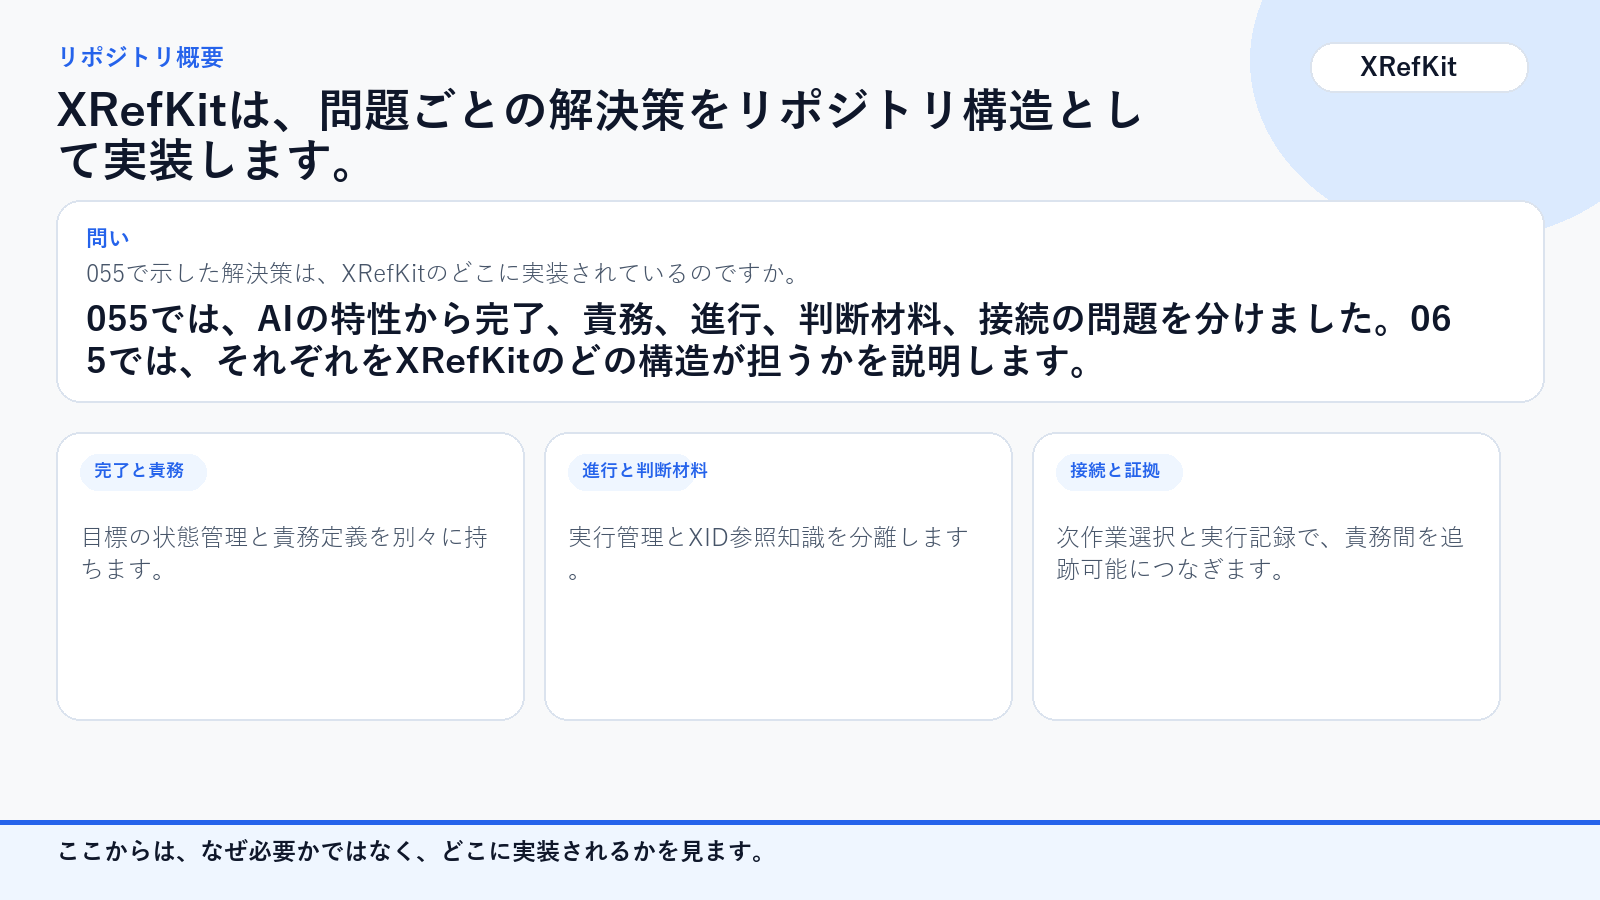
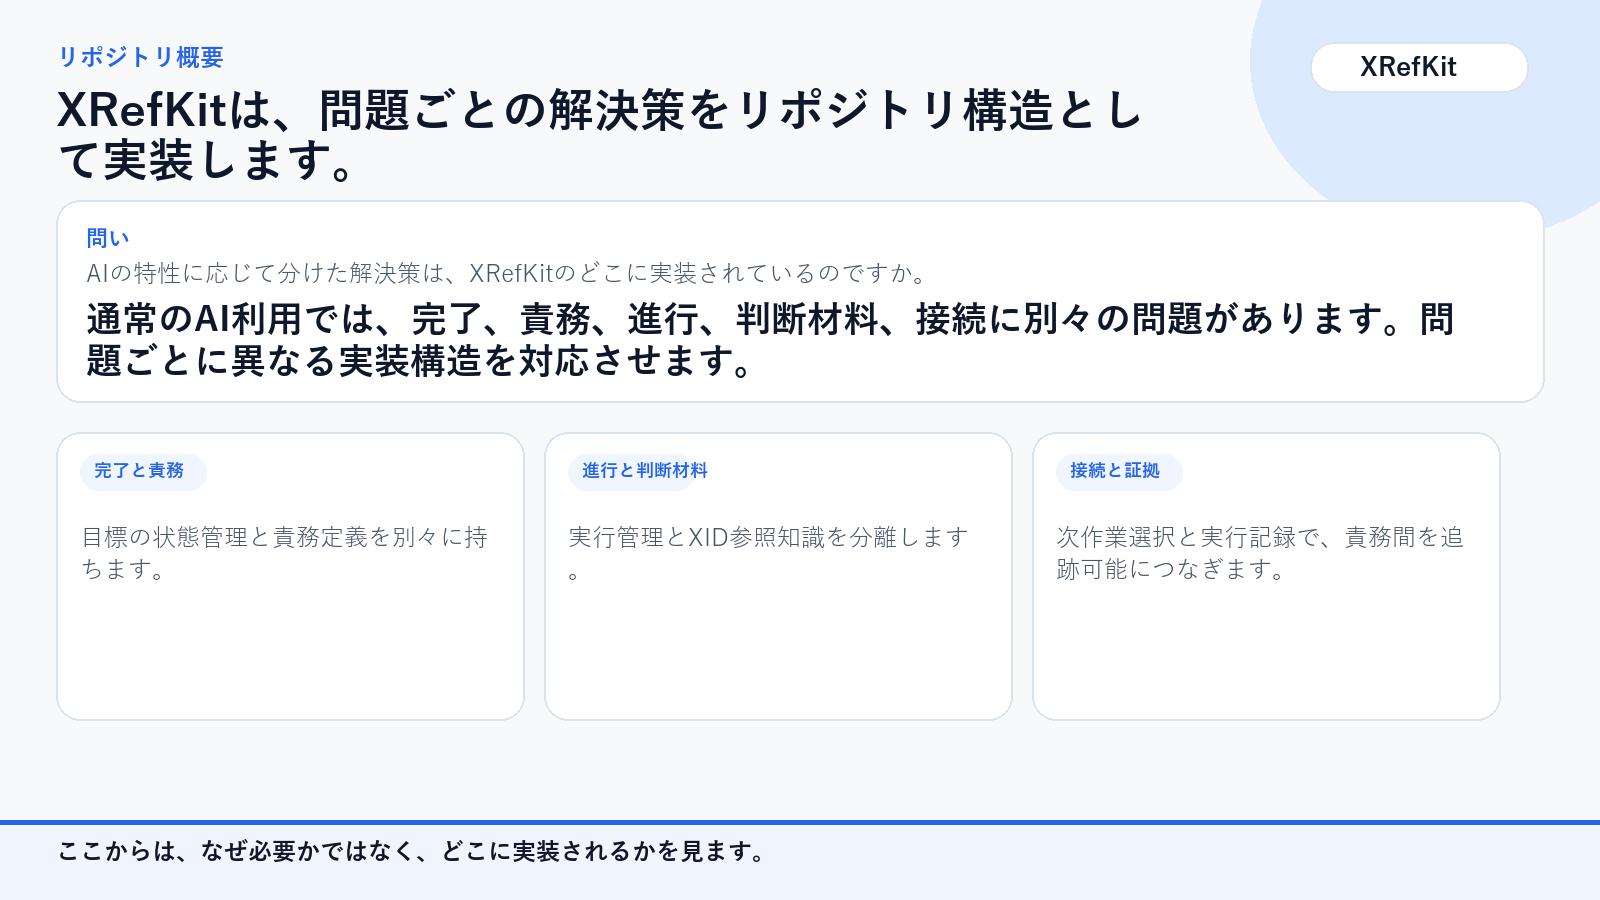
Remove deck-number-dependent copy

Changed region(s): [[0.0312, 0.28, 0.9062, 0.4356]]

diff --git a/human-docs/ja/video/065_xrefkit_repository_overview/index.html b/human-docs/ja/video/065_xrefkit_repository_overview/index.html
@@ -52,9 +52,9 @@
     <h1>XRefKit リポジトリ説明動画プレビュー</h1>
     <p>質問スライドと解説スライドを交互に並べた、現在の XRefKit リポジトリ概要です。</p>
 
-    <div class="entry"><div class="order">01a</div><p>055で示した解決策は、XRefKitのどこに実装されているのですか。</p><img src="../../assets/065_xrefkit_repository_overview/01_title_q.png" alt="01a" /></div>
+    <div class="entry"><div class="order">01a</div><p>AIの特性に応じて分けた解決策は、XRefKitのどこに実装されているのですか。</p><img src="../../assets/065_xrefkit_repository_overview/01_title_q.png" alt="01a" /></div>
     <div class="entry"><div class="order">01b</div><p>XRefKitは、問題ごとの解決策をリポジトリ構造として実装します。</p><img src="../../assets/065_xrefkit_repository_overview/01_title.png" alt="01b" /></div>
-    <div class="entry"><div class="order">02a</div><p>055で分けた解決策は、どの実装構造が担当するのですか。</p><img src="../../assets/065_xrefkit_repository_overview/02_not_docs_q.png" alt="02a" /></div>
+    <div class="entry"><div class="order">02a</div><p>完了、責務、進行、判断材料、接続は、どの実装構造が担当するのですか。</p><img src="../../assets/065_xrefkit_repository_overview/02_not_docs_q.png" alt="02a" /></div>
     <div class="entry"><div class="order">02b</div><p>目標、限定責務、進行、判断材料、接続を別の構造で持ちます。</p><img src="../../assets/065_xrefkit_repository_overview/02_not_docs.png" alt="02b" /></div>
     <div class="entry"><div class="order">03a</div><p>では、このリポジトリは何をどう分けているのですか。</p><img src="../../assets/065_xrefkit_repository_overview/03_layers_q.png" alt="03a" /></div>
     <div class="entry"><div class="order">03b</div><p>層を分けて、読むもの、従うもの、残すものを分離しています。</p><img src="../../assets/065_xrefkit_repository_overview/03_layers.png" alt="03b" /></div>

diff --git a/site/ja/slides/065_xrefkit_repository_overview/index.html b/site/ja/slides/065_xrefkit_repository_overview/index.html
@@ -52,9 +52,9 @@
     <h1>XRefKit リポジトリ説明動画プレビュー</h1>
     <p>質問スライドと解説スライドを交互に並べた、現在の XRefKit リポジトリ概要です。</p>
 
-    <div class="entry"><div class="order">01a</div><p>055で示した解決策は、XRefKitのどこに実装されているのですか。</p><img src="../../assets/065_xrefkit_repository_overview/01_title_q.png" alt="01a" /></div>
+    <div class="entry"><div class="order">01a</div><p>AIの特性に応じて分けた解決策は、XRefKitのどこに実装されているのですか。</p><img src="../../assets/065_xrefkit_repository_overview/01_title_q.png" alt="01a" /></div>
     <div class="entry"><div class="order">01b</div><p>XRefKitは、問題ごとの解決策をリポジトリ構造として実装します。</p><img src="../../assets/065_xrefkit_repository_overview/01_title.png" alt="01b" /></div>
-    <div class="entry"><div class="order">02a</div><p>055で分けた解決策は、どの実装構造が担当するのですか。</p><img src="../../assets/065_xrefkit_repository_overview/02_not_docs_q.png" alt="02a" /></div>
+    <div class="entry"><div class="order">02a</div><p>完了、責務、進行、判断材料、接続は、どの実装構造が担当するのですか。</p><img src="../../assets/065_xrefkit_repository_overview/02_not_docs_q.png" alt="02a" /></div>
     <div class="entry"><div class="order">02b</div><p>目標、限定責務、進行、判断材料、接続を別の構造で持ちます。</p><img src="../../assets/065_xrefkit_repository_overview/02_not_docs.png" alt="02b" /></div>
     <div class="entry"><div class="order">03a</div><p>では、このリポジトリは何をどう分けているのですか。</p><img src="../../assets/065_xrefkit_repository_overview/03_layers_q.png" alt="03a" /></div>
     <div class="entry"><div class="order">03b</div><p>層を分けて、読むもの、従うもの、残すものを分離しています。</p><img src="../../assets/065_xrefkit_repository_overview/03_layers.png" alt="03b" /></div>

diff --git a/human-docs/ja/assets/065_xrefkit_repository_overview/08_conclusion.html b/human-docs/ja/assets/065_xrefkit_repository_overview/08_conclusion.html
@@ -215,7 +215,7 @@ body {
     <section class="summary">
       <div class="summary-label">問い</div>
       <div class="summary-copy">この実装構造を、組織の利用環境へどう届けるのですか。</div>
-      <div class="summary-title">055で分けた解決策を、責務定義、組織固有知識、実行管理、証拠、参照解決として実装し、同じ構造を複数の利用環境へ届けます。</div>
+      <div class="summary-title">問題ごとに分けた解決策を、責務定義、組織固有知識、実行管理、証拠、参照解決として実装し、同じ構造を複数の利用環境へ届けます。</div>
     </section>
     <section class="cards">
       <article class="card">
@@ -230,7 +230,7 @@ body {
         <div class="card-tag">MCP</div>
         <p>同じ参照解決機構から必要なXID本文を配信します。</p>
       </article></section>
-    <div class="takeaway">問題ごとに分けた仕組みを、<strong>同じ契約のまま実装・配布する</strong>ことが065の結論です。</div>
+    <div class="takeaway">問題ごとに分けた仕組みを、<strong>同じ契約のまま実装・配布する</strong>ことが、この資料の結論です。</div>
   </main>
 </body>
 </html>

diff --git a/human-docs/ja/assets/065_xrefkit_repository_overview/02_not_docs.html b/human-docs/ja/assets/065_xrefkit_repository_overview/02_not_docs.html
@@ -214,7 +214,7 @@ body {
     </header>
     <section class="summary">
       <div class="summary-label">問い</div>
-      <div class="summary-copy">055で分けた解決策は、どの実装構造が担当するのですか。</div>
+      <div class="summary-copy">完了、責務、進行、判断材料、接続は、どの実装構造が担当するのですか。</div>
       <div class="summary-title">一つの万能機能にまとめず、問題ごとの責任境界をパッケージ、責務定義、組織固有知識、実行記録へ対応させます。</div>
     </section>
     <section class="cards">
@@ -230,7 +230,7 @@ body {
         <div class="card-tag">次作業選択</div>
         <p>責務一覧と現在状態から、次に必要な責務を選びます。</p>
       </article></section>
-    <div class="takeaway">055の<strong>問題と解決策の対応</strong>を、そのまま<strong>実装境界</strong>として保ちます。</div>
+    <div class="takeaway"><strong>問題と解決策の対応</strong>を、そのまま<strong>実装境界</strong>として保ちます。</div>
   </main>
 </body>
 </html>

diff --git a/human-docs/ja/assets/065_xrefkit_repository_overview/01_title.html b/human-docs/ja/assets/065_xrefkit_repository_overview/01_title.html
@@ -214,8 +214,8 @@ body {
     </header>
     <section class="summary">
       <div class="summary-label">問い</div>
-      <div class="summary-copy">055で示した解決策は、XRefKitのどこに実装されているのですか。</div>
-      <div class="summary-title">055では、AIの特性から完了、責務、進行、判断材料、接続の問題を分けました。065では、それぞれをXRefKitのどの構造が担うかを説明します。</div>
+      <div class="summary-copy">AIの特性に応じて分けた解決策は、XRefKitのどこに実装されているのですか。</div>
+      <div class="summary-title">通常のAI利用では、完了、責務、進行、判断材料、接続に別々の問題があります。問題ごとに異なる実装構造を対応させます。</div>
     </section>
     <section class="cards">
       <article class="card">

diff --git a/human-docs/ja/assets/065_xrefkit_repository_overview/04_runtime.html b/human-docs/ja/assets/065_xrefkit_repository_overview/04_runtime.html
@@ -215,7 +215,7 @@ body {
     <section class="summary">
       <div class="summary-label">問い</div>
       <div class="summary-copy">責務定義があれば、そのまま実行すればいいのではないですか。</div>
-      <div class="summary-title">xrefkit skill runコマンドで責務実行を開始し、作業項目、成果物、懸念事項、役割分離を記録してから閉じます。これが055で示した進行問題への実装です。</div>
+      <div class="summary-title">xrefkit skill runコマンドで責務実行を開始し、作業項目、成果物、懸念事項、役割分離を記録してから閉じます。これが作業途中の終了と作業漏れへの実装です。</div>
     </section>
     <section class="cards">
       <article class="card">

diff --git a/site/assets/deck-catalog.js b/site/assets/deck-catalog.js
@@ -24,7 +24,7 @@ const XREFKIT_DECKS = [
     id: "065",
     level: "Implementation",
     role: "Repository implementation",
-    question: { en: "How does the repository implement controlled AI work?", ja: "055で分けた解決策を、XRefKitはどの構造として実装するのか。" },
+    question: { en: "How does the repository implement controlled AI work?", ja: "AIの特性に応じて分けた解決策を、XRefKitはどの構造として実装するのか。" },
     title: { en: "XRefKit Repository Overview", ja: "XRefKit リポジトリ概要" },
     summary: {
       en: "Explains XRefKit as the operating base that connects Goals, Skills, Knowledge, workflow evidence, and MCP distribution.",

diff --git a/site/sources/assets/deck-catalog.js b/site/sources/assets/deck-catalog.js
@@ -24,7 +24,7 @@ const XREFKIT_DECKS = [
     id: "065",
     level: "Implementation",
     role: "Repository implementation",
-    question: { en: "How does the repository implement controlled AI work?", ja: "055で分けた解決策を、XRefKitはどの構造として実装するのか。" },
+    question: { en: "How does the repository implement controlled AI work?", ja: "AIの特性に応じて分けた解決策を、XRefKitはどの構造として実装するのか。" },
     title: { en: "XRefKit Repository Overview", ja: "XRefKit リポジトリ概要" },
     summary: {
       en: "Explains XRefKit as the operating base that connects Goals, Skills, Knowledge, workflow evidence, and MCP distribution.",

diff --git a/human-docs/ja/assets/065_xrefkit_repository_overview/01_title_q.html b/human-docs/ja/assets/065_xrefkit_repository_overview/01_title_q.html
@@ -215,7 +215,7 @@ body {
     <section class="question-wrap">
       <div class="question-box">
         <div class="question-label">問い</div>
-        <div class="question-text">055で示した解決策は、XRefKitのどこに実装されているのですか。</div>
+        <div class="question-text">AIの特性に応じて分けた解決策は、XRefKitのどこに実装されているのですか。</div>
       </div>
     </section>
     <div class="takeaway"><strong>視聴者の疑問</strong>を先に置き、その次に一つずつ説明します。</div>

diff --git a/human-docs/ja/assets/065_xrefkit_repository_overview/02_not_docs_q.html b/human-docs/ja/assets/065_xrefkit_repository_overview/02_not_docs_q.html
@@ -215,7 +215,7 @@ body {
     <section class="question-wrap">
       <div class="question-box">
         <div class="question-label">問い</div>
-        <div class="question-text">055で分けた解決策は、どの実装構造が担当するのですか。</div>
+        <div class="question-text">完了、責務、進行、判断材料、接続は、どの実装構造が担当するのですか。</div>
       </div>
     </section>
     <div class="takeaway"><strong>視聴者の疑問</strong>を先に置き、その次に一つずつ説明します。</div>

diff --git a/human-docs/ja/assets/065_xrefkit_repository_overview/render_pngs.py b/human-docs/ja/assets/065_xrefkit_repository_overview/render_pngs.py
@@ -22,9 +22,9 @@ FONT_REG = str(Path("C:/Windows/Fonts/YuGothR.ttc"))
 SLIDES = [
     {
         "name": "01_title",
-        "question": "055で示した解決策は、XRefKitのどこに実装されているのですか。",
+        "question": "AIの特性に応じて分けた解決策は、XRefKitのどこに実装されているのですか。",
         "title": "XRefKitは、問題ごとの解決策をリポジトリ構造として実装します。",
-        "copy": "055では、AIの特性から完了、責務、進行、判断材料、接続の問題を分けました。065では、それぞれをXRefKitのどの構造が担うかを説明します。",
+        "copy": "通常のAI利用では、完了、責務、進行、判断材料、接続に別々の問題があります。問題ごとに異なる実装構造を対応させます。",
         "cards": [
             ("完了と責務", "目標の状態管理と責務定義を別々に持ちます。"),
             ("進行と判断材料", "実行管理とXID参照知識を分離します。"),
@@ -34,7 +34,7 @@ SLIDES = [
     },
     {
         "name": "02_not_docs",
-        "question": "055で分けた解決策は、どの実装構造が担当するのですか。",
+        "question": "完了、責務、進行、判断材料、接続は、どの実装構造が担当するのですか。",
         "title": "目標、限定責務、進行、判断材料、接続を別の構造で持ちます。",
         "copy": "一つの万能機能にまとめず、問題ごとの責任境界をパッケージ、責務定義、組織固有知識、実行記録へ対応させます。",
         "cards": [
@@ -42,7 +42,7 @@ SLIDES = [
             ("進行と組織固有知識", "作業進行規約は実行記録、判断材料はXID本文が持ちます。"),
             ("次作業選択", "責務一覧と現在状態から、次に必要な責務を選びます。"),
         ],
-        "takeaway": "055の問題と解決策の対応を、そのまま実装境界として保ちます。",
+        "takeaway": "問題と解決策の対応を、そのまま実装境界として保ちます。",
     },
     {
         "name": "03_layers",
@@ -60,7 +60,7 @@ SLIDES = [
         "name": "04_runtime",
         "question": "責務定義があれば、そのまま実行すればいいのではないですか。",
         "title": "作業進行規約を、記録と終了判定を持つ実行管理枠として実装します。",
-        "copy": "xrefkit skill runコマンドで責務実行を開始し、作業項目、成果物、懸念事項、役割分離を記録してから閉じます。これが055で示した進行問題への実装です。",
+        "copy": "xrefkit skill runコマンドで責務実行を開始し、作業項目、成果物、懸念事項、役割分離を記録してから閉じます。これが作業途中の終了と作業漏れへの実装です。",
         "cards": [
             ("開始", "定義情報を検証し、実行記録を開いてから作業を始めます。"),
             ("途中", "実行項目、成果物、証拠、未知やリスクを機械可読で残します。"),
@@ -108,13 +108,13 @@ SLIDES = [
         "name": "08_conclusion",
         "question": "この実装構造を、組織の利用環境へどう届けるのですか。",
         "title": "XRefKitは、同じ実装構造を組織へ配布するPythonパッケージです。",
-        "copy": "055で分けた解決策を、責務定義、組織固有知識、実行管理、証拠、参照解決として実装し、同じ構造を複数の利用環境へ届けます。",
+        "copy": "問題ごとに分けた解決策を、責務定義、組織固有知識、実行管理、証拠、参照解決として実装し、同じ構造を複数の利用環境へ届けます。",
         "cards": [
             ("リポジトリ", "正本と開発時の実装構造を直接利用します。"),
             ("導入済みパッケージ", "圧縮された必須資産と実行機能を利用します。"),
             ("MCP", "同じ参照解決機構から必要なXID本文を配信します。"),
         ],
-        "takeaway": "問題ごとに分けた仕組みを、同じ契約のまま実装・配布することが065の結論です。",
+        "takeaway": "問題ごとに分けた仕組みを、同じ契約のまま実装・配布することが、この資料の結論です。",
     },
 ]
 
